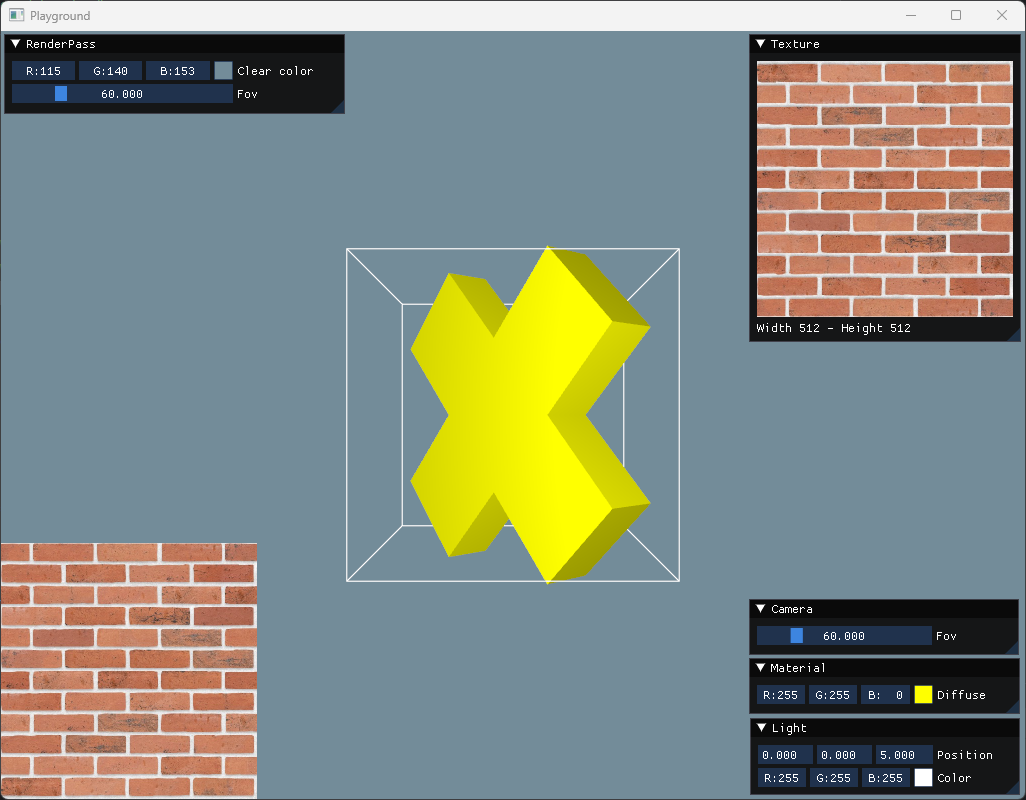
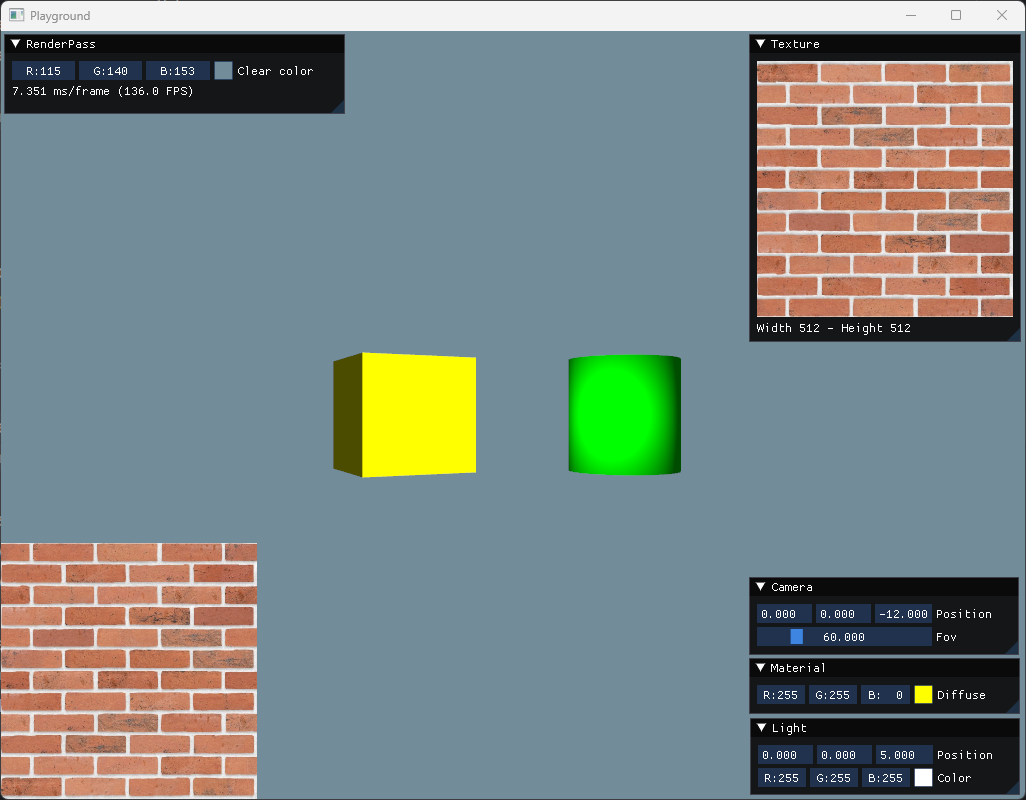
small change

Changed region(s): [[0.3119, 0.2812, 0.6862, 0.75], [0.7173, 0.7188, 0.9981, 0.8125], [0.0, 0.0938, 0.2495, 0.1562]]

diff --git a/Code/main.cpp b/Code/main.cpp
@@ -248,7 +248,7 @@ int main()
     Transform perspective_camera_transform;
     Transform ortho_camera_transform;
 
-    vec3 perspective_camera_position { 0.0f, 0.0f, -15.0f };
+    vec3 perspective_camera_position { 0.0f, 0.0f, -12.0f };
     perspective_camera_transform.translate(perspective_camera_position);
 
     // ==================================================================================
@@ -258,7 +258,7 @@ int main()
     Transform square_transform;
 
     square_transform.translate({ 128.0f, 128.0f, 0.0f });
-    cylinder_transform.translate({ 5.0f, 0.0f, 0.0f });
+    cylinder_transform.translate({ 2.0f, 0.0f, 0.0f });
 
     // ==================================================================================
 
@@ -359,7 +359,7 @@ int main()
 
         // ==================================================================================
 
-        cube_transform.translate({0.0f, 0.0f, 0.0f })
+        cube_transform.translate({-2.0f, 0.0f, 0.0f })
                       .rotate({ 0.0f, 1.0f, 0.0f }, total_time);
 
         matrices[0] = cube_transform.matrix();
